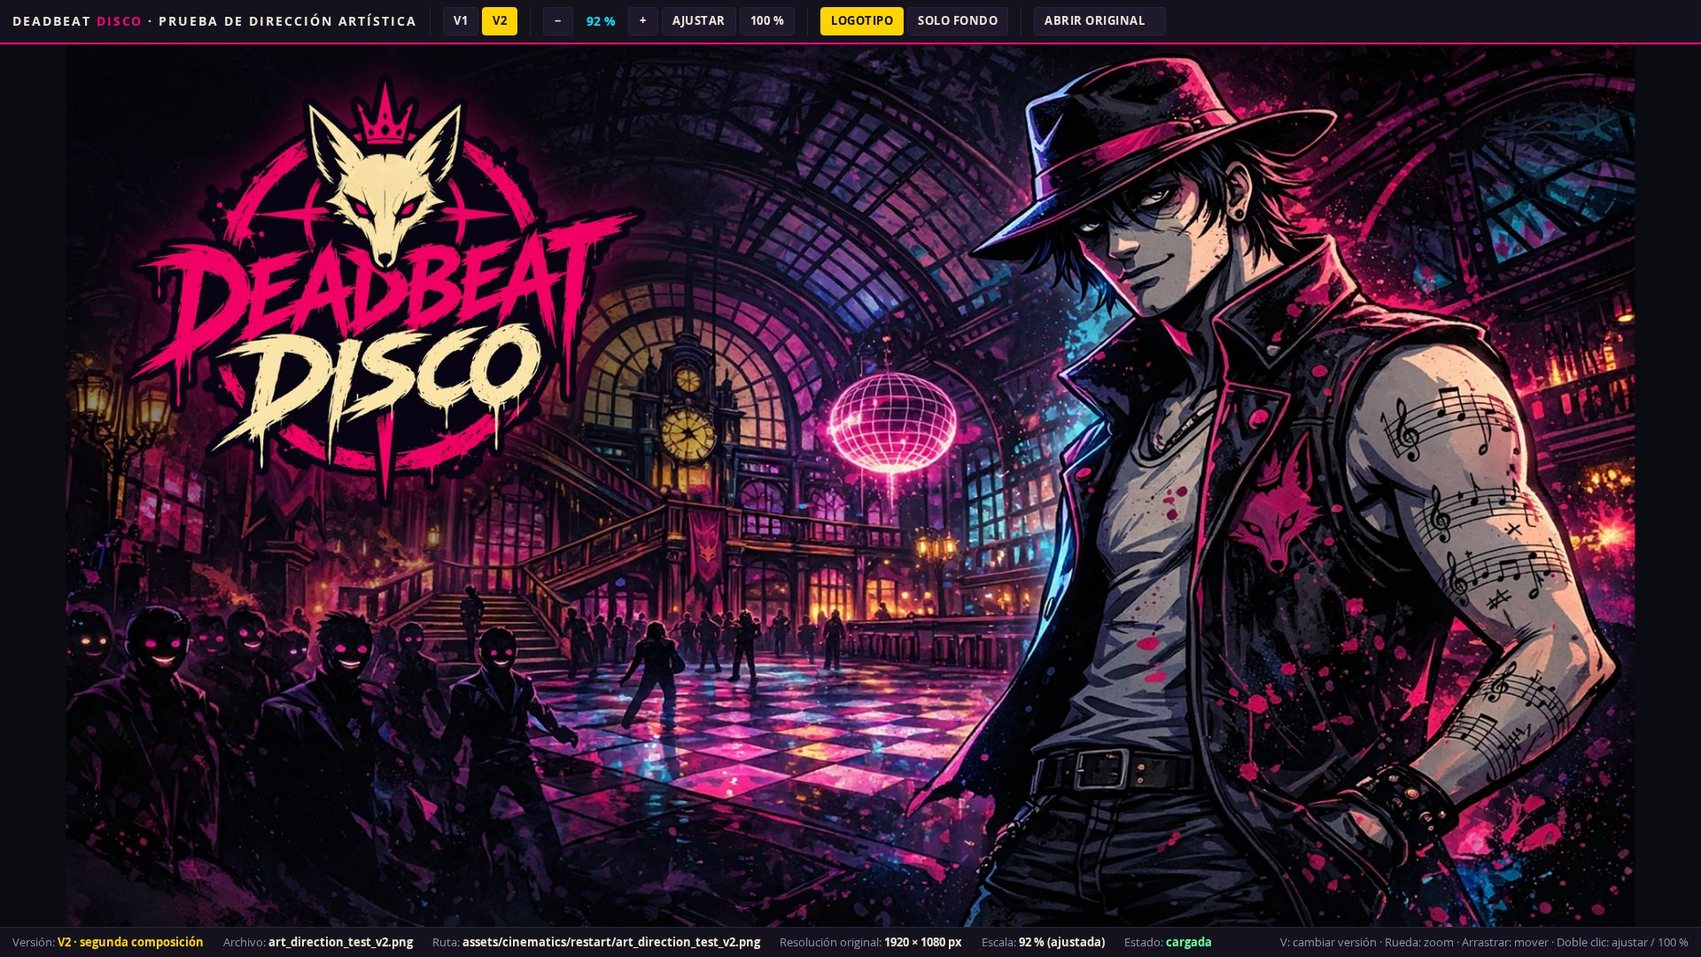
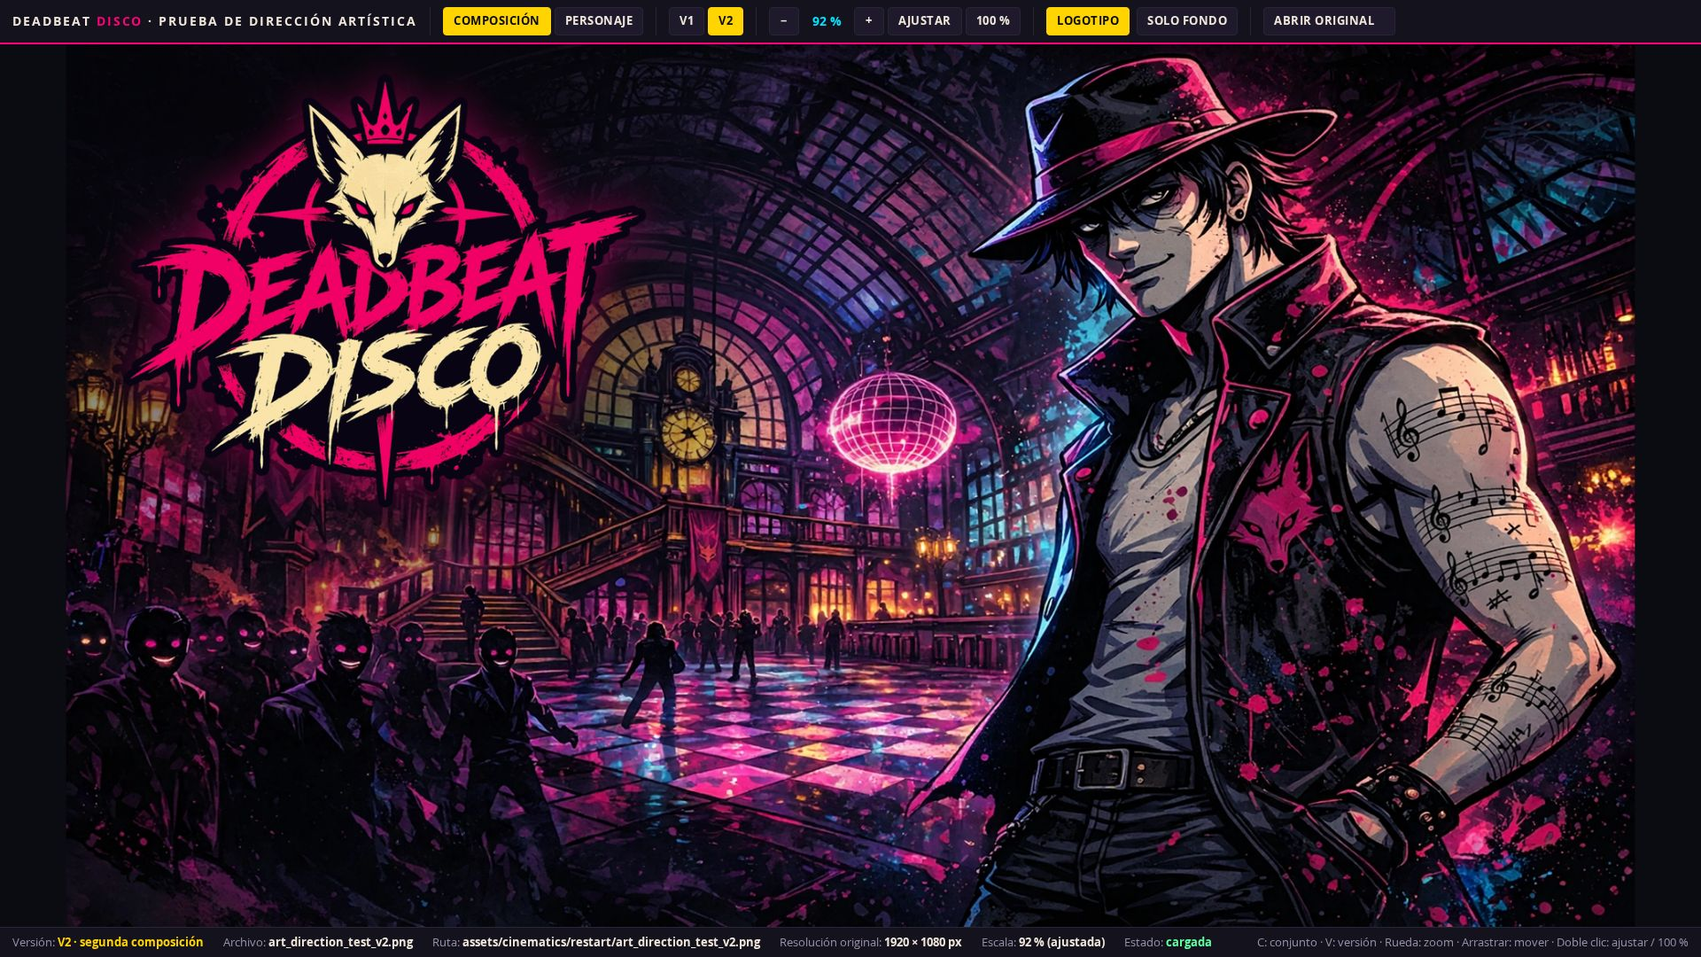
art(restart): lámina maestra del protagonista, reproducción, recortes de referencia y visor con comparación por zonas

Changed region(s): [[0.25, 0.0, 0.7188, 0.0611], [0.75, 0.0, 0.8125, 0.0306], [0.75, 0.9778, 0.7812, 1.0]]

diff --git a/assets/cinematics/preview/art_direction_test.html b/assets/cinematics/preview/art_direction_test.html
@@ -29,6 +29,8 @@
   button:hover, a.btn:hover { border-color: var(--cian); color: #fff; }
   button:focus-visible, a.btn:focus-visible { outline: 2px solid var(--amarillo); outline-offset: 2px; }
   button[aria-pressed="true"] { background: var(--amarillo); border-color: var(--amarillo); color: #0B0B12; }
+  #regiones { display: inline-flex; gap: 4px; }
+  [hidden] { display: none !important; }
   #escala { min-width: 54px; text-align: center; font-variant-numeric: tabular-nums; font-weight: 700; color: var(--cian); }
   #visor { flex: 1; min-height: 0; position: relative; overflow: hidden; background: var(--negro); cursor: grab; touch-action: none; user-select: none; }
   #visor.arrastrando { cursor: grabbing; }
@@ -52,9 +54,13 @@
 <body>
 <header>
   <h1>DEADBEAT <span>DISCO</span> · PRUEBA DE DIRECCIÓN ARTÍSTICA</h1>
-  <div class="grupo" role="group" aria-label="Versión de la composición">
-    <button id="v1" aria-pressed="false" title="Primera composición (tecla V alterna)">V1</button>
-    <button id="v2" aria-pressed="true" title="Segunda composición (tecla V alterna)">V2</button>
+  <div class="grupo" role="group" aria-label="Qué se examina">
+    <button id="c-comp" aria-pressed="false" title="Composición de la intro: V1 y V2 (tecla C alterna)">COMPOSICIÓN</button>
+    <button id="c-pers" aria-pressed="true" title="Lámina maestra del protagonista y su reproducción (tecla C alterna)">PERSONAJE</button>
+  </div>
+  <div class="grupo" role="group" aria-label="Versión">
+    <button id="v1" aria-pressed="false">—</button>
+    <button id="v2" aria-pressed="false">—</button>
   </div>
   <div class="grupo" role="group" aria-label="Zoom">
     <button id="menos" title="Reducir (tecla -)" aria-label="Reducir">−</button>
@@ -65,6 +71,7 @@
   </div>
   <div class="grupo" role="group" aria-label="Vista">
     <button id="logo" aria-pressed="true" title="Mostrar la composición con o sin logotipo (tecla L)">LOGOTIPO</button>
+    <span id="regiones" role="group" aria-label="Detalles del personaje"></span>
     <button id="fondo" aria-pressed="false" title="Ocultar la imagen y dejar solo el fondo oscuro (tecla F)">SOLO FONDO</button>
   </div>
   <div class="grupo">
@@ -84,7 +91,7 @@
   <span>Resolución original: <b id="i-res">—</b></span>
   <span>Escala: <b id="i-escala">—</b></span>
   <span>Estado: <b id="i-estado" class="espera">cargando</b></span>
-  <span class="ayuda">V: cambiar versión · Rueda: zoom · Arrastrar: mover · Doble clic: ajustar / 100 %</span>
+  <span class="ayuda">C: conjunto · V: versión · Rueda: zoom · Arrastrar: mover · Doble clic: ajustar / 100 %</span>
 </footer>
 
 <script>
@@ -92,16 +99,40 @@
   "use strict";
   /* Rutas relativas a esta página: assets/cinematics/preview/ -> assets/cinematics/restart/ */
   var BASE = "../restart/";
-  var VERSIONES = {
-    v1: { nombre: "V1 · primera composición", conLogo: "art_direction_test.png", sinLogo: "art_direction_test_plate.png" },
-    v2: { nombre: "V2 · segunda composición", conLogo: "art_direction_test_v2.png", sinLogo: "art_direction_test_v2_plate.png" }
+  /* Cada conjunto tiene dos versiones comparables. `regiones` son encuadres
+     en coordenadas normalizadas (x, y, ancho, alto de 0 a 1) válidos para ambas. */
+  var CONJUNTOS = {
+    comp: {
+      carpeta: "",
+      versiones: [
+        { id: "v1", boton: "V1", nombre: "V1 · primera composición", conLogo: "art_direction_test.png", sinLogo: "art_direction_test_plate.png" },
+        { id: "v2", boton: "V2", nombre: "V2 · segunda composición", conLogo: "art_direction_test_v2.png", sinLogo: "art_direction_test_v2_plate.png" }
+      ],
+      inicial: "v2", regiones: []
+    },
+    pers: {
+      carpeta: "character_master/",
+      versiones: [
+        { id: "v1", boton: "MAESTRA", nombre: "Lámina maestra aprobada (original intacto)", conLogo: "protagonist_master_approved.png" },
+        { id: "v2", boton: "REPRODUCCIÓN", nombre: "Reproducción de Arena", conLogo: "protagonist_master_reproduction.png" }
+      ],
+      inicial: "v1",
+      regiones: [
+        { id: "rostro", boton: "ROSTRO", r: [0.13, 0.00, 0.28, 0.33] },
+        { id: "tatuajes", boton: "TATUAJES", r: [0.27, 0.24, 0.23, 0.72] },
+        { id: "detalles", boton: "DETALLES", r: [0.478, 0.49, 0.522, 0.48] },
+        { id: "vistas", boton: "VISTAS", r: [0.478, 0.00, 0.522, 0.50] }
+      ]
+    }
   };
   var RUTA_REPO = "assets/cinematics/restart/";
+  function conj() { return CONJUNTOS[v.conjunto]; }
+  function version() { var c = conj(); return c.versiones[0].id === v.version ? c.versiones[0] : c.versiones[1]; }
   var MIN = 0.05, MAX = 8;
 
   var $ = function (id) { return document.getElementById(id); };
   var visor = $("visor"), img = $("imagen"), aviso = $("aviso");
-  var v = { s: 1, x: 0, y: 0, w: 0, h: 0, cargada: false, ajustada: true, conLogo: true, version: "v2" };
+  var v = { s: 1, x: 0, y: 0, w: 0, h: 0, cargada: false, ajustada: true, conLogo: true, conjunto: "pers", version: "v1", region: null };
 
   function limitar() {
     var cw = visor.clientWidth, ch = visor.clientHeight, iw = v.w * v.s, ih = v.h * v.s;
@@ -124,29 +155,36 @@
     s = Math.min(MAX, Math.max(MIN, s));
     if (px == null) { px = visor.clientWidth / 2; py = visor.clientHeight / 2; }
     var ix = (px - v.x) / v.s, iy = (py - v.y) / v.s;
-    v.s = s; v.x = px - ix * s; v.y = py - iy * s; v.ajustada = false; pintar();
+    v.s = s; v.x = px - ix * s; v.y = py - iy * s; v.ajustada = false; marcarRegion(null); pintar();
   }
   function mover(dx, dy) { if (!v.cargada) return; v.x += dx; v.y += dy; pintar(); }
 
   function cargar() {
-    var ver = VERSIONES[v.version];
-    var archivo = v.conLogo ? ver.conLogo : ver.sinLogo;
-    $("i-version").textContent = ver.nombre + (v.conLogo ? "" : " · sin logotipo");
-    $("v1").setAttribute("aria-pressed", String(v.version === "v1"));
-    $("v2").setAttribute("aria-pressed", String(v.version === "v2"));
-    document.title = "DEADBEAT DISCO · Prueba de dirección artística · " + v.version.toUpperCase();
-    var mantener = v.cargada;
-    $("i-archivo").textContent = archivo;
+    var c = conj(), ver = version(), tienePlaca = !!ver.sinLogo;
+    var archivo = c.carpeta + ((v.conLogo || !tienePlaca) ? ver.conLogo : ver.sinLogo);
+    var antes = v.cargada ? { w: v.w, conjunto: v.conjuntoCargado } : null;
+    $("i-version").textContent = ver.nombre + (tienePlaca && !v.conLogo ? " · sin logotipo" : "");
+    $("c-comp").setAttribute("aria-pressed", String(v.conjunto === "comp"));
+    $("c-pers").setAttribute("aria-pressed", String(v.conjunto === "pers"));
+    ["v1", "v2"].forEach(function (id, i) {
+      $(id).textContent = c.versiones[i].boton; $(id).title = c.versiones[i].nombre + " (tecla V alterna)";
+      $(id).setAttribute("aria-pressed", String(v.version === id));
+    });
+    $("logo").hidden = !tienePlaca;
+    document.title = "DEADBEAT DISCO · Prueba de dirección artística · " + ver.boton;
+    $("i-archivo").textContent = archivo.split("/").pop();
     $("i-ruta").textContent = RUTA_REPO + archivo;
     $("abrir").href = BASE + archivo;
     estado("cargando", "espera");
     img.onload = function () {
-      var mismas = mantener && v.w === img.naturalWidth && v.h === img.naturalHeight;
-      v.w = img.naturalWidth; v.h = img.naturalHeight; v.cargada = true;
+      v.w = img.naturalWidth; v.h = img.naturalHeight; v.cargada = true; v.conjuntoCargado = v.conjunto;
       $("i-res").textContent = v.w + " × " + v.h + " px";
       aviso.hidden = true; aviso.className = "";
       estado("cargada", "ok");
-      if (mismas) pintar(); else ajustar();   /* al alternar variantes se conserva el encuadre */
+      /* Dentro de un mismo conjunto se conserva el encuadre aunque las dos imágenes
+         tengan distinta resolución: mismo tamaño en pantalla y misma posición. */
+      if (antes && antes.conjunto === v.conjunto && !v.ajustada) { v.s = v.s * antes.w / v.w; pintar(); }
+      else ajustar();
     };
     img.onerror = function () {
       v.cargada = false; img.removeAttribute("src");
@@ -158,14 +196,41 @@
     };
     img.src = BASE + archivo;
   }
+  /* Encuadra una región normalizada [x, y, ancho, alto] dentro del lienzo. */
+  function irARegion(id) {
+    if (!v.cargada) return;
+    var reg = conj().regiones.filter(function (g) { return g.id === id; })[0]; if (!reg) return;
+    var r = reg.r, cw = visor.clientWidth, ch = visor.clientHeight;
+    v.s = Math.min(MAX, Math.min(cw / (r[2] * v.w), ch / (r[3] * v.h)));
+    v.x = cw / 2 - (r[0] + r[2] / 2) * v.w * v.s; v.y = ch / 2 - (r[1] + r[3] / 2) * v.h * v.s;
+    v.ajustada = false; marcarRegion(id); pintar();
+  }
+  function marcarRegion(id) {
+    v.region = id || null;
+    Array.prototype.forEach.call($("regiones").children, function (b) { b.setAttribute("aria-pressed", String(b.dataset.region === v.region)); });
+  }
+  function pintarRegiones() {
+    var caja = $("regiones"); caja.innerHTML = "";
+    conj().regiones.forEach(function (g, i) {
+      var b = document.createElement("button"); b.textContent = g.boton; b.dataset.region = g.id; b.id = "r-" + g.id;
+      b.title = "Ampliar: " + g.boton.toLowerCase() + " (tecla " + (i + 2) + ")"; b.setAttribute("aria-pressed", "false");
+      b.onclick = function () { irARegion(g.id); }; caja.appendChild(b);
+    });
+  }
+  function elegirConjunto(id) {
+    if (v.conjunto === id) return;
+    v.conjunto = id; v.version = CONJUNTOS[id].inicial; v.ajustada = true; marcarRegion(null); pintarRegiones(); cargar();
+  }
   function estado(t, c) { var e = $("i-estado"); e.textContent = t; e.className = c; }
 
   /* Controles */
   $("mas").onclick = function () { zoomA(v.s * 1.25); };
   $("menos").onclick = function () { zoomA(v.s / 1.25); };
-  $("ajustar").onclick = ajustar;
+  $("ajustar").onclick = function () { marcarRegion(null); ajustar(); };
   $("real").onclick = function () { zoomA(1); };
   function elegir(ver) { if (v.version === ver) return; v.version = ver; cargar(); }
+  $("c-comp").onclick = function () { elegirConjunto("comp"); };
+  $("c-pers").onclick = function () { elegirConjunto("pers"); };
   $("v1").onclick = function () { elegir("v1"); };
   $("v2").onclick = function () { elegir("v2"); };
   $("logo").onclick = function () {
@@ -202,10 +267,12 @@
     var k = e.key, paso = 80;
     if (k === "+" || k === "=") zoomA(v.s * 1.25);
     else if (k === "-" || k === "_") zoomA(v.s / 1.25);
-    else if (k === "0") ajustar();
+    else if (k === "0") $("ajustar").click();
     else if (k === "1") zoomA(1);
     else if (k === "v" || k === "V") elegir(v.version === "v1" ? "v2" : "v1");
-    else if (k === "l" || k === "L") $("logo").click();
+    else if (k === "c" || k === "C") elegirConjunto(v.conjunto === "comp" ? "pers" : "comp");
+    else if (k >= "2" && k <= "5" && conj().regiones[+k - 2]) irARegion(conj().regiones[+k - 2].id);
+    else if ((k === "l" || k === "L") && !$("logo").hidden) $("logo").click();
     else if (k === "f" || k === "F") $("fondo").click();
     else if (k === "ArrowLeft") mover(paso, 0);
     else if (k === "ArrowRight") mover(-paso, 0);
@@ -218,8 +285,11 @@
   window.addEventListener("resize", function () { if (v.ajustada) ajustar(); else pintar(); });
 
   /* Lectura para pruebas automáticas. */
-  window.DD_VISOR = { estado: function () { return { s: v.s, x: v.x, y: v.y, w: v.w, h: v.h, cargada: v.cargada, ajustada: v.ajustada, conLogo: v.conLogo, version: v.version }; } };
+  window.DD_VISOR = { estado: function () { return { s: v.s, x: v.x, y: v.y, w: v.w, h: v.h, cargada: v.cargada, ajustada: v.ajustada, conLogo: v.conLogo, version: v.version, conjunto: v.conjunto, region: v.region }; } };
 
+  /* ?ver=composicion abre directamente la comparación V1 / V2. */
+  if (/[?&]ver=comp/.test(location.search)) { v.conjunto = "comp"; v.version = CONJUNTOS.comp.inicial; }
+  pintarRegiones();
   cargar();
 })();
 </script>

diff --git a/tools/qa/test_art_direction_viewer.js b/tools/qa/test_art_direction_viewer.js
@@ -4,7 +4,8 @@
 const { chromium } = require("playwright-core");
 const BASE = process.argv[2] || "http://localhost:8080";
 const OUT = process.argv[3] || null;
-const PAGE = BASE + "/assets/cinematics/preview/art_direction_test.html";
+const VIEWER = BASE + "/assets/cinematics/preview/art_direction_test.html";
+const PAGE = VIEWER + "?ver=composicion";   /* comparación V1 / V2 */
 const RES = [[1280, 720], [1366, 768], [1920, 1080], [2560, 1440], [3440, 1440]];
 const results = [];
 const check = (name, ok, detail) => { results.push({ name, ok: !!ok, detail }); console.log((ok ? "PASS " : "FAIL ") + name + (detail ? "  · " + detail : "")); };
@@ -106,6 +107,39 @@ const check = (name, ok, detail) => { results.push({ name, ok: !!ok, detail }); 
     if (OUT && w === 1366) await pg.screenshot({ path: OUT + "/visor_1366x768_ajustada.jpg", type: "jpeg", quality: 80 });
   }
   check("3 sin errores de rutas · 4 sin errores JavaScript", errors.length === 0, errors.join(" | ") || "0 errores, 0 peticiones fallidas");
+
+  /* ---- Conjunto PERSONAJE: lámina maestra aprobada frente a la reproducción. ---- */
+  await pg.setViewportSize({ width: 1920, height: 1080 });
+  await pg.goto(VIEWER); await loaded(pg);
+  let m = await st(pg);
+  check("P1 abre en PERSONAJE con la lámina maestra", m.conjunto === "pers" && m.version === "v1" && m.archivo === "protagonist_master_approved.png" && /maestra/i.test(m.verTxt), m.verTxt + " · " + m.archivo);
+  check("P1 resolución de la maestra", m.res === "1672 × 941 px" && m.ruta === "assets/cinematics/restart/character_master/protagonist_master_approved.png", m.res);
+  check("P el botón de logotipo se oculta (no hay variante)", await pg.evaluate(() => document.getElementById("logo").hidden));
+  const fitM = m;
+  if (OUT) await pg.screenshot({ path: OUT + "/personaje_maestra.jpg", type: "jpeg", quality: 80 });
+  await pg.click("#v2"); await wait("protagonist_master_reproduction.png"); let r = await st(pg);
+  check("P2 reproducción de Arena", r.version === "v2" && r.res === "1376 × 768 px" && /Reproducción/.test(r.verTxt), r.verTxt + " · " + r.res);
+  check("P2 proporción propia conservada", Math.abs(r.r.w / r.r.h - r.w / r.h) < 0.002, (r.r.w / r.r.h).toFixed(4));
+  if (OUT) await pg.screenshot({ path: OUT + "/personaje_reproduccion.jpg", type: "jpeg", quality: 80 });
+  await pg.click("#v1"); await wait("protagonist_master_approved.png");
+  for (const [id, n] of [["rostro", "3 rostro"], ["tatuajes", "4 tatuajes"], ["detalles", "4 detalles de tatuajes"], ["vistas", "5 vistas"]]) {
+    await pg.click("#r-" + id); const a1 = await st(pg);
+    const pressed = await pg.getAttribute("#r-" + id, "aria-pressed");
+    await pg.keyboard.press("v"); await wait("protagonist_master_reproduction.png"); const a2 = await st(pg);
+    const sameBox = Math.abs(a1.r.x - a2.r.x) < 0.5 && Math.abs(a1.r.y - a2.r.y) < 0.5 && Math.abs(a1.r.w - a2.r.w) < 0.5;
+    check("P" + n + ": ampliado y con el mismo encuadre en maestra y reproducción", a1.region === id && pressed === "true" && a1.s > fitM.s * 1.3 && sameBox, a1.escala + " / " + a2.escala);
+    if (OUT) await pg.screenshot({ path: OUT + "/personaje_" + id + "_reproduccion.jpg", type: "jpeg", quality: 80 });
+    await pg.keyboard.press("v"); await wait("protagonist_master_approved.png");
+    if (OUT) await pg.screenshot({ path: OUT + "/personaje_" + id + "_maestra.jpg", type: "jpeg", quality: 80 });
+  }
+  await pg.click("#ajustar"); m = await st(pg);
+  check("P ajustar vuelve a la lámina completa", m.ajustada && m.region === null && Math.abs(m.s - fitM.s) < 1e-6, m.escala);
+  await pg.keyboard.press("c"); await wait("art_direction_test_v2.png"); m = await st(pg);
+  check("P tecla C: cambia a COMPOSICIÓN y vuelve", m.conjunto === "comp" && m.ajustada && await pg.evaluate(() => !document.getElementById("logo").hidden && document.getElementById("regiones").children.length === 0), m.verTxt);
+  await pg.click("#c-pers"); await wait("protagonist_master_approved.png");
+  const hash = require("crypto").createHash("sha256").update(await (await ctx.request.get(BASE + "/assets/cinematics/restart/character_master/protagonist_master_approved.png")).body()).digest("hex");
[1 lines of base64/hex data omitted]
+  check("P sin errores de rutas ni de JavaScript (ambos conjuntos)", errors.length === 0, errors.join(" | ") || "0 errores");
 
   /* Recurso ausente: debe verse un mensaje claro. */
   const pg2 = await ctx.newPage();

diff --git a/docs/RESTART/03_PERSONAJE_MAESTRO.md b/docs/RESTART/03_PERSONAJE_MAESTRO.md
@@ -1,0 +1,102 @@
+# PROJECT RESTART — Modelo maestro del protagonista
+
+- **Fecha:** 2026-11-12 · **Rama:** `arena/1a801cc0-deadbeat-disconew`
+- **Estado:** la lámina aprobada queda archivada como modelo maestro. No se ha tocado el juego, los sprites, el lore ni el logotipo.
+
+## Qué manda a partir de ahora
+
+La lámina `protagonist_master_approved.png` es la especificación visual del protagonista. **Para producir cualquier ilustración futura se usa la lámina original, no la reproducción**: la reproducción tiene menos resolución y pequeñas desviaciones (ver más abajo).
+
+## Archivos
+
+Carpeta: `assets/cinematics/restart/character_master/`
+
+| Archivo | Qué es | Resolución |
+|---|---|---|
+| `protagonist_master_approved.png` | **Lámina maestra aprobada.** Copia byte a byte del archivo recibido (SHA-256 `43d9e58f…004e5d`). | 1672 × 941 |
+| `protagonist_master_reproduction.png` | Reproducción de Arena, sin retocar | 1376 × 768 |
+| `protagonist_master_crop_hero.png` | Recorte de la maestra: ilustración principal | 800 × 941 |
+| `protagonist_master_crop_face.png` | Recorte de la maestra: rostro, pelo y sombrero | 390 × 280 |
+| `protagonist_master_crop_arm_tattoos.png` | Recorte de la maestra: brazo tatuado | 280 × 630 |
+| `protagonist_master_crop_turnaround.png` | Recorte de la maestra: cinco vistas | 856 × 415 |
+| `protagonist_master_crop_tattoo_details.png` | Recorte de la maestra: cinco detalles de tatuaje | 856 × 390 |
+
+Maestro de la reproducción: `ART_ASSETS/rebuild_masters/R04_INICIO/protagonist_master_reproduction.webp`.
+
+Los recortes son píxeles de la lámina original sin modificar. Sirven como imagen de referencia al generar retratos, vistas, sprites y planos de cinemática.
+
+## Ficha del diseño (leída de la lámina)
+
+| Elemento | Descripción |
+|---|---|
+| Sombrero | Ala ancha, oscuro, cinta magenta, salpicaduras amarillas y cian |
+| Pelo | Oscuro, despeinado, mechones en punta con reflejos magenta que asoman bajo el ala |
+| Rostro | Un ojo en sombra, el otro ámbar encendido; barba de dos días; media sonrisa; dilatación en la oreja |
+| Torso | Camiseta blanca de tirantes; chaleco negro abierto sin mangas, solapa con ribete magenta, zorro magenta con goteo en el pecho |
+| Espalda | Emblema magenta de corona con tridente (vista trasera) |
+| Piernas | Pantalón cargo negro con vivos magenta, cadena de cartera, botas militares |
+| Accesorios | Dos cadenas al cuello con placa, cinturón de hebilla, muñequeras |
+| Tatuaje 1 | **Ankh** negro en el lateral del cuello |
+| Tatuaje 2 | **Sigilo geométrico** en el hombro: estrella dentro de un círculo, rodeado de formas orgánicas |
+| Tatuaje 3 | **Lobo** aullando en la parte alta del antebrazo, con rombos y cuatro aros debajo |
+| Tatuaje 4 | **Patrón orgánico** de volutas en el antebrazo |
+| Tatuaje 5 | **Sigilo circular** con estrella en el dorso de la mano; marcas pequeñas en los dedos |
+
+## Informe de diferencias: reproducción frente a maestra
+
+Comparación hecha superponiendo ambas y ampliando por zonas. Pares lado a lado en `docs/RESTART/evidencia_personaje/`.
+
+**La reproducción no es idéntica.** Es muy cercana en diseño, pero inferior como archivo.
+
+| Aspecto | Resultado |
+|---|---|
+| Resolución | **Menor que la original:** 1376 × 768 frente a 1672 × 941. No se ha conseguido una reproducción de más resolución. |
+| Proporción | 1,792 frente a 1,777. La lámina queda un 0,8 % más ancha. |
+| Composición | Igual distribución de paneles. El personaje principal está algo más alto: **la copa del sombrero queda cortada por el borde superior.** |
+| Silueta y anatomía | Coinciden. Hombro y antebrazo ligeramente más anchos. |
+| Rostro | Mismos rasgos y expresión. El ojo ámbar es algo más pequeño y la mandíbula un poco más redondeada. |
+| Pelo | Mismo peinado; los mechones difieren en forma y número. |
+| Sombrero | Mismo diseño; menos salpicadura amarilla en el ala. |
+| Vestuario | Coincide: chaleco, camiseta, zorro, cinturón, cadena. |
+| Tatuajes | Los cinco motivos están en su sitio y orientación. Falta el **pequeño acento rojo** dentro del sigilo del hombro; el trazo fino del lobo y del sigilo es más blando. |
+| Accesorios | Coinciden. |
+| Paleta | Color medio prácticamente igual (maestra 86/39/65, reproducción 84/39/63). |
+| Iluminación | Coincide. |
+| Texturas | Más suaves; se pierde parte del grano de tinta. |
+| Vistas del personaje | Las cinco, con sus rótulos. Detalles menores distintos en cadenas y pliegues. |
+| Textos | Todos los rótulos correctos. |
+| Diferencia media por píxel | 20–33 sobre 255 según canal, tras igualar tamaños. Incluye el desplazamiento de encuadre. |
+
+## Conflictos con la documentación vigente
+
+No se ha modificado ningún documento de canon. Quedan anotados para tu decisión:
+
+1. **Tatuajes y lore.** La biblia (§4.1) dice que los tatuajes del Desafinado «parecen una partitura incompleta». La lámina aprobada los sustituye por ankh, sigilos, lobo y patrón orgánico. El texto del lore y el diseño ya no coinciden.
+2. **Sprites del juego.** Los 22 sprites muestran al personaje sin sombrero, con pelo negro sin reflejos, pantalón recto y tatuajes distintos. Mientras no se rehagan, el personaje del Refugio no coincide con la lámina.
+3. **V1 y V2 de la composición.** Ninguna usa este diseño (V2 lleva la partitura). Quedan como histórico de la exploración.
+4. **Título de la lámina.** El rótulo «DEADBEAT DISCO» de la lámina es un trazo de pincel distinto del logotipo aprobado (`logo_deadbeat_graffiti.png`). El logotipo del proyecto no cambia.
+
+## Visor
+
+`assets/cinematics/preview/art_direction_test.html` abre ahora en **PERSONAJE**.
+
+| Control | Qué hace | Tecla |
+|---|---|---|
+| `COMPOSICIÓN` / `PERSONAJE` | Cambia entre la comparación V1–V2 y la lámina del personaje | `C` |
+| `MAESTRA` / `REPRODUCCIÓN` | Alterna original y reproducción con el mismo encuadre en pantalla | `V` |
+| `ROSTRO` | Amplía rostro, pelo y sombrero | `2` |
+| `TATUAJES` | Amplía el brazo de la ilustración principal | `3` |
+| `DETALLES` | Amplía el panel de detalles de tatuajes | `4` |
+| `VISTAS` | Amplía las cinco vistas | `5` |
+
+El resto (zoom, ajustar, 100 %, arrastrar, solo fondo, abrir original, datos del pie) funciona igual. Para abrir directamente la comparación V1–V2: añadir `?ver=composicion` a la dirección.
+
+## Pruebas
+
+`tools/qa/test_art_direction_viewer.js`, Chromium 153 sin cabeza: **45 de 45 superadas** (`evidencia_visor/qa_visor.json`).
+
+- Las 32 anteriores de la comparación V1–V2 siguen pasando.
+- 13 nuevas del personaje: carga de maestra y reproducción con sus resoluciones, los cuatro encuadres de detalle con la misma posición en ambas, vuelta a lámina completa, cambio de conjunto, y comprobación de que la maestra servida es el archivo original byte a byte.
+- El juego original arranca (carga → intro → Refugio) sin errores.
+
+Capturas del visor: `evidencia_visor/personaje_*.jpg`.
